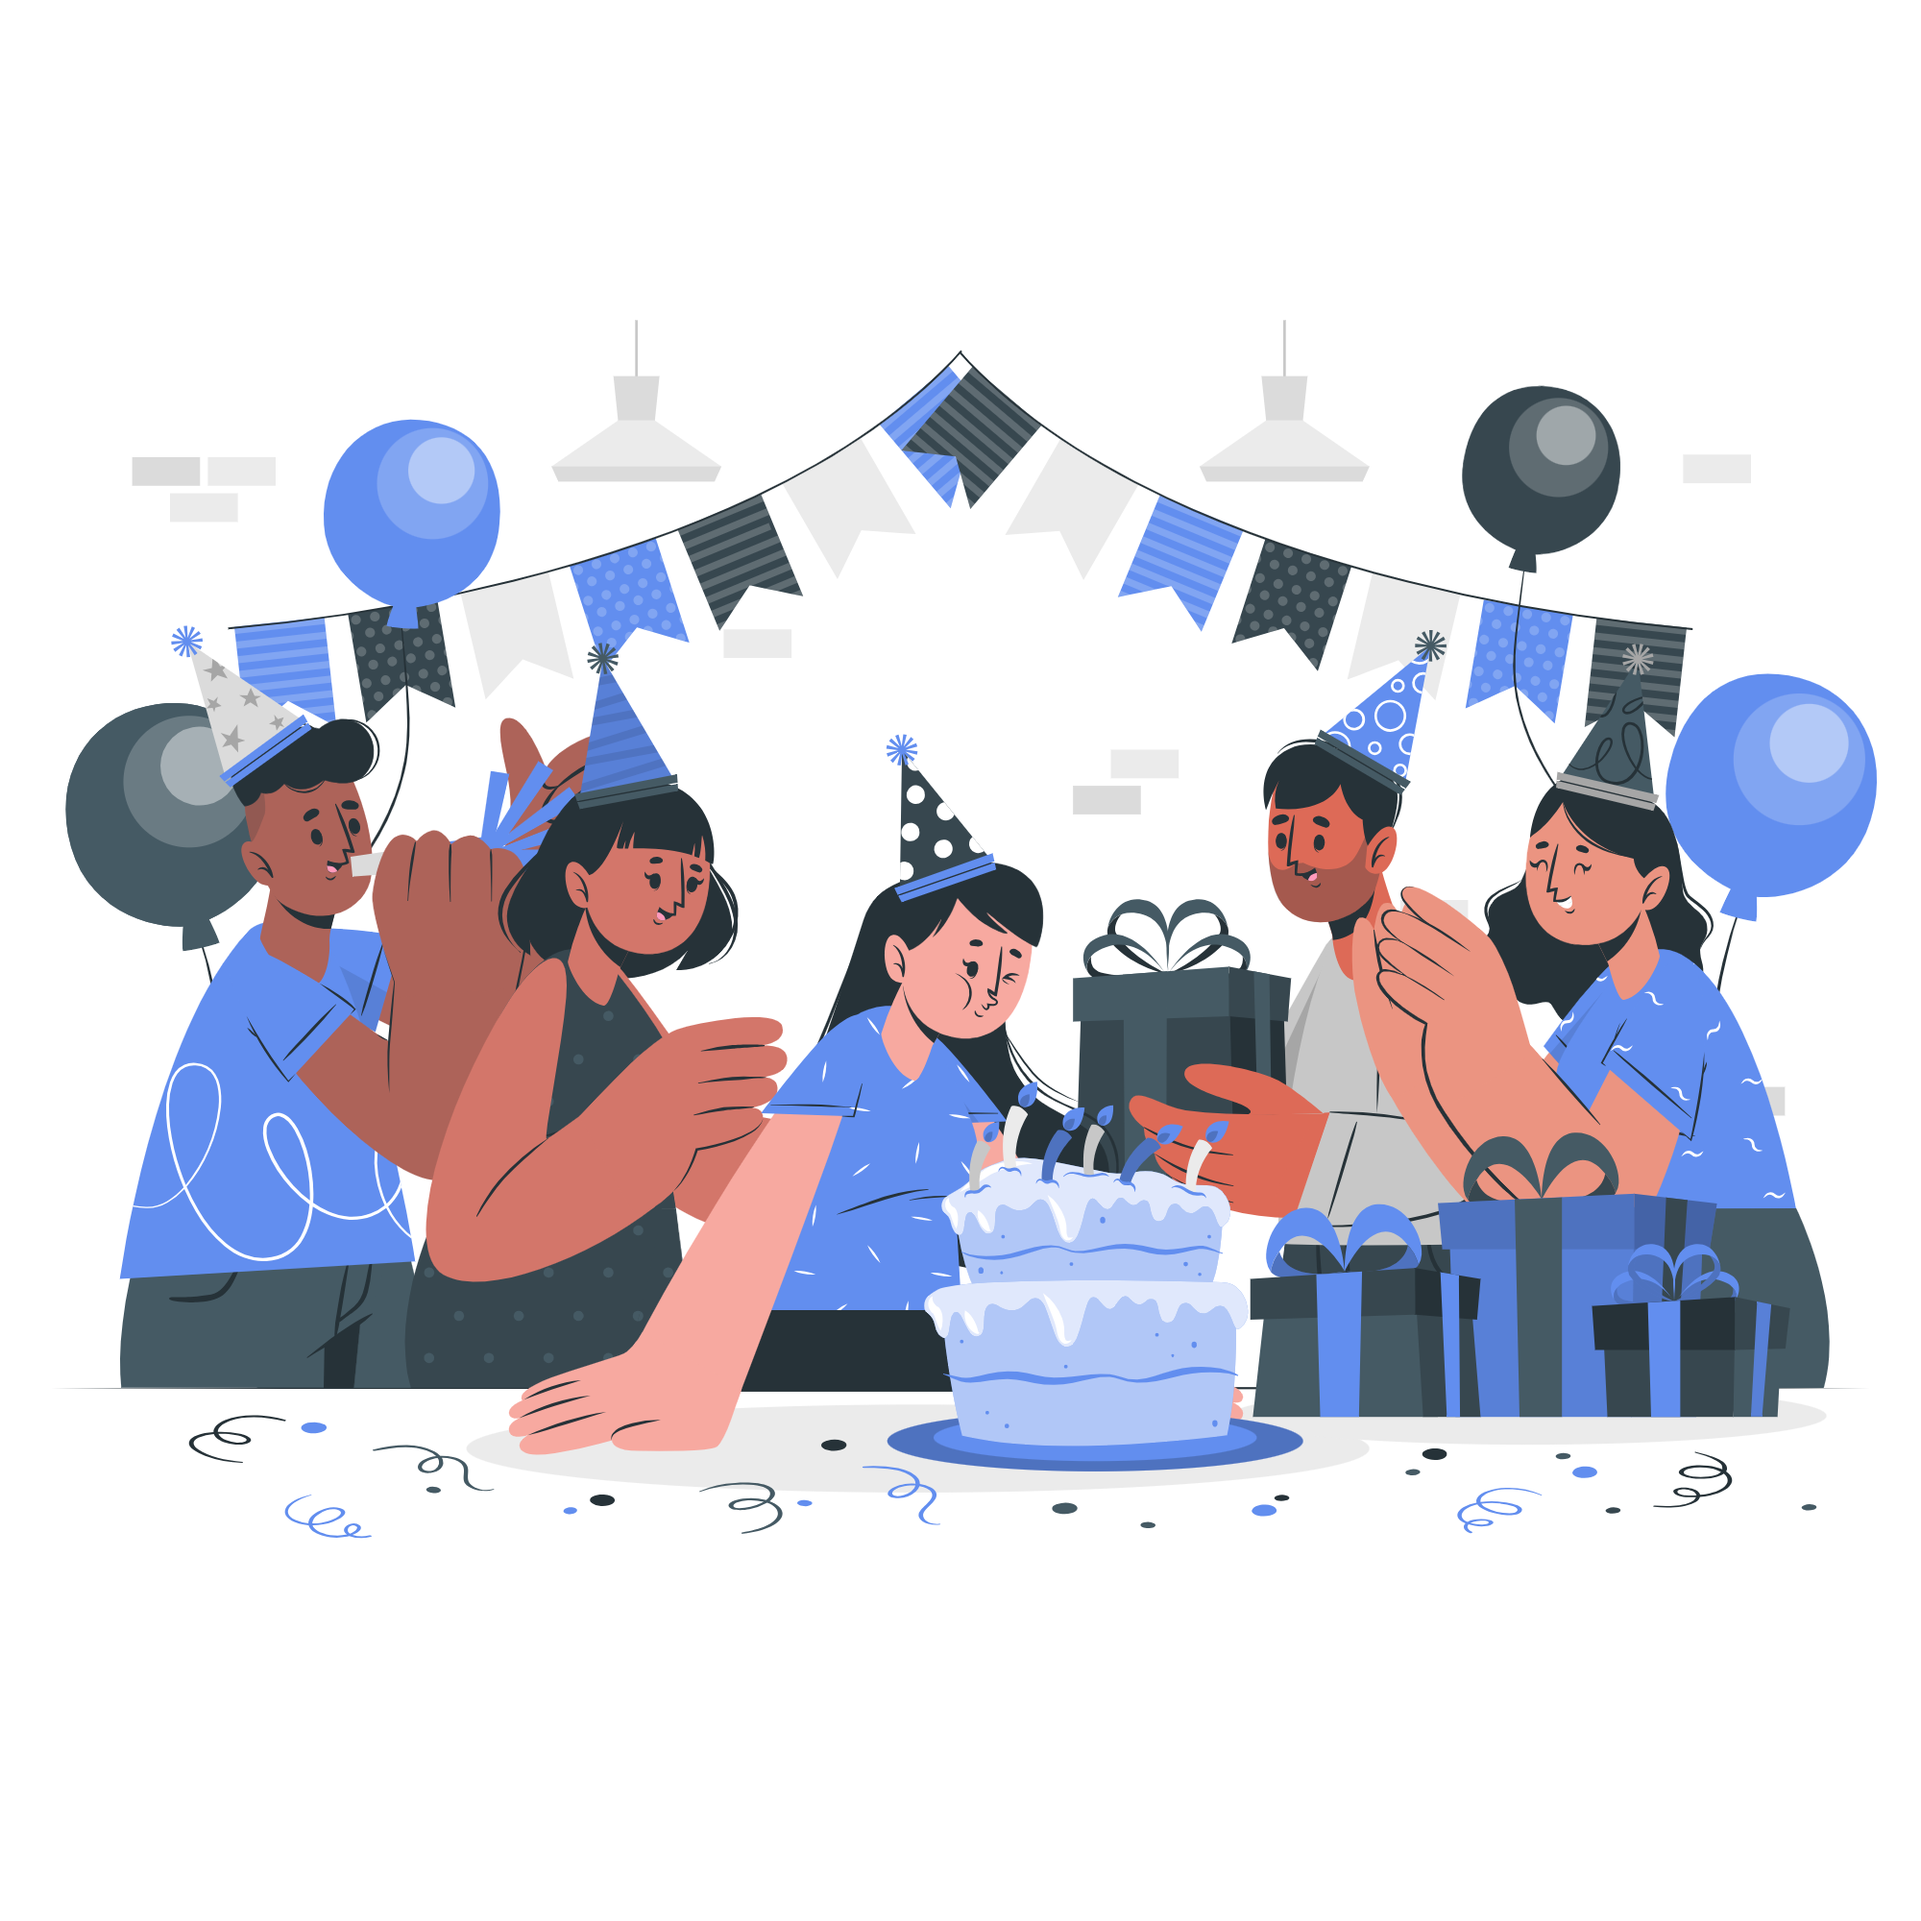
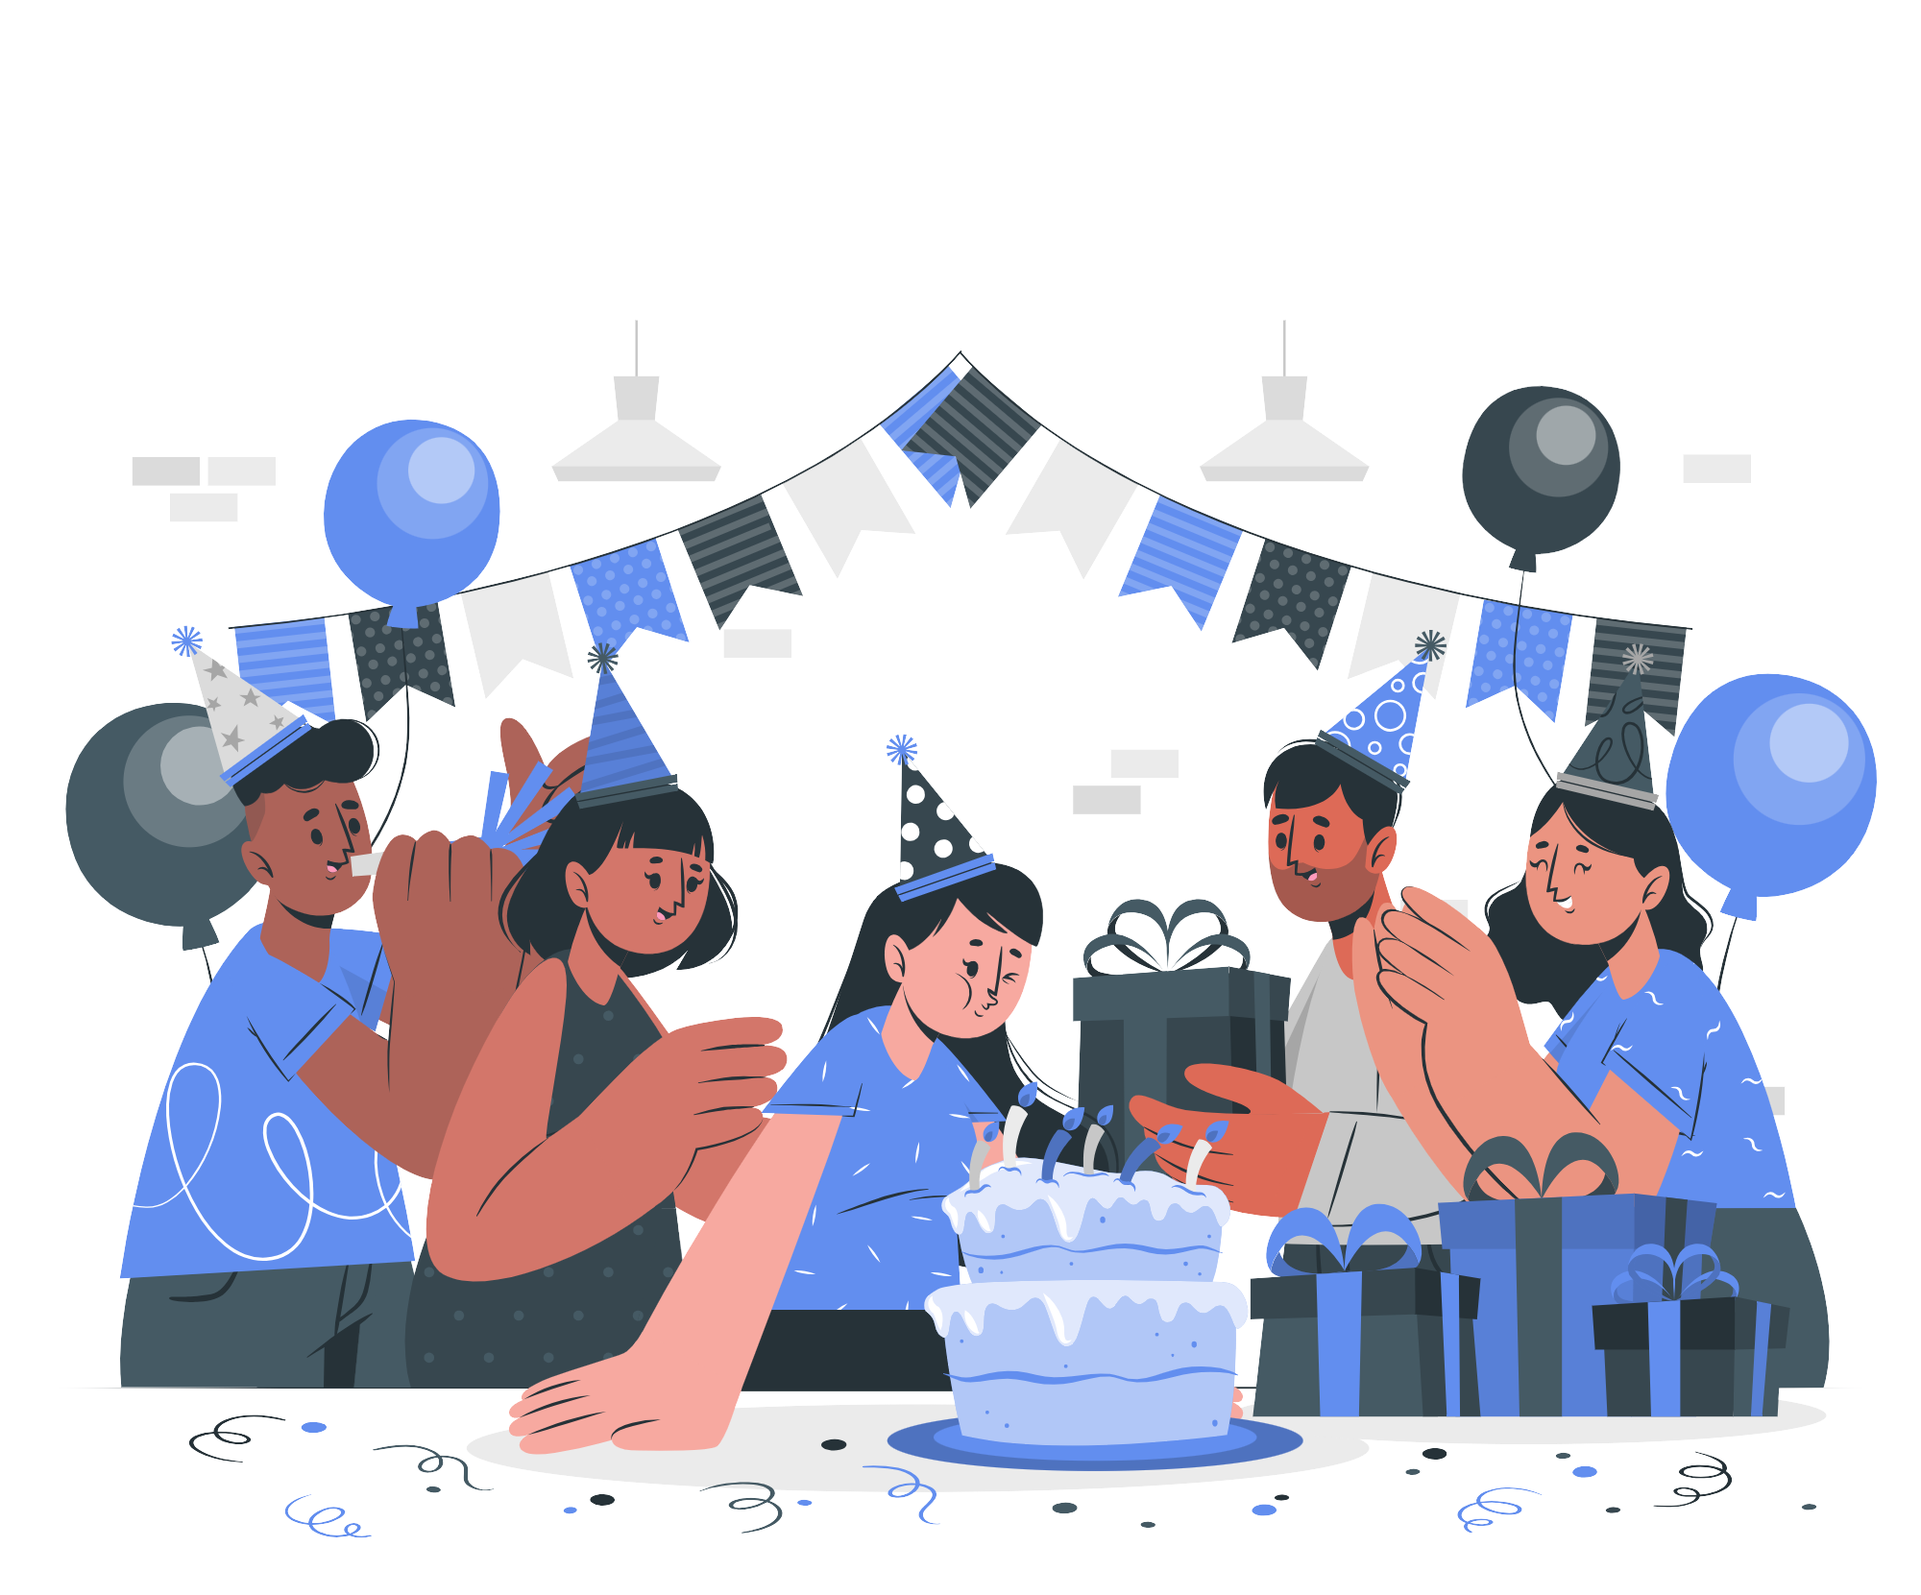
updating components

diff --git a/src/components/options/Options.tsx b/src/components/options/Options.tsx
@@ -1,25 +1,36 @@
 import { Text, View, TouchableOpacity, TextProps} from 'react-native';
 import { styles } from "./styles";
 import themes from "../../Styles/theme"
-import FristGroupOptions from "./FristGroupOptions";
-import SecondGroupOptions from "./SecondGroupOptions";
+import FristOptionsText from "./FristOptionsText";
+import SecondOptionsText from "./SecondOptionsText";
 import BackgroundOptions from "./BackgroundOptions";
+import FristOptionsRoute from "./FristOptionsRoute";
+import SecondOptionsRoute from "./SecondOptionsRoute";
 
 interface OptionsProps extends TextProps {
   OptionKey: string;
-
+  onPressCallback: (key: string) => void; 
 }
 
-const getFristGroupOptionsByKey = (key: string | undefined) => {
-  const FristOptionsEntry = FristGroupOptions.find((entry) => entry.key === key);
-  return FristOptionsEntry ? FristOptionsEntry.value : null;
+const getFristOptionsTextByKey = (key: string | undefined) => {
+  const FristOptionsTextEntry = FristOptionsText.find((entry) => entry.key === key);
+  return FristOptionsTextEntry ? FristOptionsTextEntry.value : null;
 };
 
-const getSecondGroupOptionsByKey = (key: string | undefined) => {
-  const SecondOptionsEntry = SecondGroupOptions.find((entry) => entry.key === key);
-  return SecondOptionsEntry ? SecondOptionsEntry.value : null;
+const getFristOptionsRouteByKey = (key: string | undefined) => {
+  const FristOptionsRouteEntry = FristOptionsRoute.find((entry) => entry.key === key);
+  return FristOptionsRouteEntry ? FristOptionsRouteEntry.value : '';
 };
 
+const getSecondOptionsTextByKey = (key: string | undefined) => {
+  const SecondOptionsTextEntry = SecondOptionsText.find((entry) => entry.key === key);
+  return SecondOptionsTextEntry ? SecondOptionsTextEntry.value : null;
+};
+
+const getSecondOptionsRouteByKey = (key: string | undefined) => {
+  const SecondOptionsRouteEntry = SecondOptionsRoute.find((entry) => entry.key === key);
+  return SecondOptionsRouteEntry ? SecondOptionsRouteEntry.value : '';
+};
 
 const getBackgroundOptionsByKey = (key: string | undefined) => {
   const BackgroundOptionsEntry = BackgroundOptions.find((entry) => entry.key === key);
@@ -28,13 +39,9 @@ const getBackgroundOptionsByKey = (key: string | undefined) => {
 
 const Options: React.FC<OptionsProps> = (props) => {
 
-  const { OptionKey } = props;
-  const FristOptionsValue = getFristGroupOptionsByKey(OptionKey);
-
-
-  const SecondOptionsValue = getSecondGroupOptionsByKey(OptionKey);
-
-
+  const { OptionKey, onPressCallback } = props;
+  const FristOptionsTextValue = getFristOptionsTextByKey(OptionKey);
+  const SecondOptionsValue = getSecondOptionsTextByKey(OptionKey);
   const BackgroundOptionsValue = getBackgroundOptionsByKey(OptionKey);
 
   return (
@@ -48,9 +55,12 @@ const Options: React.FC<OptionsProps> = (props) => {
             { backgroundColor: BackgroundOptionsValue !== null ? BackgroundOptionsValue : themes.colors.default },
             { borderRadius: 20 },
           ]}
-          // onPress = () realizar função quando clicar
+          onPress={() => {
+            const nextKey = getFristOptionsRouteByKey(OptionKey);
+            onPressCallback(nextKey);
+          }}
           >
-          <Text style={styles.text}>{FristOptionsValue}</Text>
+          <Text style={styles.text}>{FristOptionsTextValue}</Text>
         </TouchableOpacity>
 
 
@@ -60,7 +70,10 @@ const Options: React.FC<OptionsProps> = (props) => {
             {  backgroundColor: BackgroundOptionsValue !== null ? BackgroundOptionsValue : themes.colors.default},
             { borderRadius: 20 },
           ]}
-          // onPress = () realizar função quando clicar
+          onPress={() => {
+            const nextKey = getSecondOptionsRouteByKey(OptionKey);
+            onPressCallback(nextKey);
+          }}
           >
           <Text style={styles.text}>{SecondOptionsValue}</Text>
         </TouchableOpacity>

diff --git a/src/screens/Home/index.tsx b/src/screens/Home/index.tsx
@@ -1,13 +1,10 @@
+import React, { useState } from 'react';
 import { View, Text } from "react-native";
 import { styles } from "./styles";
-import MovieDescription from "../../components/movie_description/MovieDescription";
-import DirectorMovie from "../../components/director_movie/DirectorMovie";
-import MovieDuration from "../../components/movie_duration/MovieDuration";
-import MovieGenre from "../../components/movie_genre/MovieGenre";
-import MovieAvailable from "../../components/movie_available/MovieAvailable";
-import ImageQuestion from "../../components/image_question/ImageQuestion";
-import MovieCover from "../../components/movie_cover/MovieCover";
-import RestartButton from "../../components/restart_button/RestartButton";
+
+import ImageQuestion from '../../components/image_question/ImageQuestion';
+import Question from '../../components/question/Question';
+import Options from '../../components/options/Options';
 
 // ------------------ IMPORTANTE --------------------------------
 // todos os componentes estão passando string, se tiver que mudar para number
@@ -19,27 +16,28 @@ import RestartButton from "../../components/restart_button/RestartButton";
 
 //---------------------------------------------------------------
 
-export function Home() {
 
-    const teste = '1'; 
+
+export function Home() {
+    const [QuestionID, setQuestionID] = useState('1');
+
+    const handlePress = (newValue: string) => {
+        setQuestionID(newValue);
+      };
+
     return(
         <View style={styles.container}>
 
-        <ImageQuestion ImageKey={"10"}/>
+            <ImageQuestion ImageKey={QuestionID}/>
 
-        <MovieDescription MovieDescriptionKey={"1"}/>
+            <Question textKey={QuestionID}/>
 
-        <DirectorMovie NameDirectorKey={"1"}/>
+            <Options OptionKey={QuestionID} 
                 
-        <MovieDuration MovieDurationKey={"1"}/>
-
-        <MovieGenre MovieGenreKey={"1"}/>
-
-        {/* <MovieCover Coverkey={"1"}/> */}
-
-        <RestartButton BackgroundKey={teste}/>
-        
+                onPressCallback={handlePress}
+            />
 
         </View>
     );
 }
+

diff --git a/src/components/restart_button/RestartButton.tsx b/src/components/restart_button/RestartButton.tsx
@@ -5,6 +5,7 @@ import BackgroundOptions from './BackgroundOptions';
 
 interface RestartButtonProps extends TextProps {
   BackgroundKey: string ;
+  // onPressCallback: (key: string) => void; 
 }
 
 const getBackgroundOptionsByKey = (key: string | undefined) => {
@@ -12,8 +13,24 @@ const getBackgroundOptionsByKey = (key: string | undefined) => {
   return BackgroundOptionsEntry ? BackgroundOptionsEntry.value : null;
 };
 
+//teste ---------------------------
+
+// const testeOptions = [
+  
+//   { key: '1', value: '3' },
+//   { key: '2', value: '1' },
+//   { key: '3', value: '2' },
+// ];
+
+// const gettesteOptionsByKey = (key: string | undefined) => {
+//   const TESTEEntry = testeOptions.find((entry) => entry.key === key);
+//   return TESTEEntry ? TESTEEntry.value : '';
+// };
+
+
 const RestartButton: React.FC<RestartButtonProps> = (props) => {
-  const { BackgroundKey } = props;
+  // const { BackgroundKey, onPressCallback } = props;
+  const { BackgroundKey} = props;
   const BackgroundValue = getBackgroundOptionsByKey(BackgroundKey);
 
   return (
@@ -27,8 +44,13 @@ const RestartButton: React.FC<RestartButtonProps> = (props) => {
             {backgroundColor: BackgroundValue !== null ? BackgroundValue : themes.colors.default  },
             { borderRadius: 20 },
           ]}
-          //onPress = () add ação do botão
-          >
+
+          // onPress={() => {
+          //   const nextKey = gettesteOptionsByKey(BackgroundKey);
+          //   onPressCallback(nextKey);
+          // }}
+        > 
+
           <Text style={styles.textBtn}>REINICIAR</Text>
         </TouchableOpacity>
 

diff --git a/src/components/options/FristOptionsRoute.ts b/src/components/options/FristOptionsRoute.ts
@@ -1,0 +1,18 @@
+const FristOptionsRoute = [
+  
+  { key: '1', value: '2' },
+  { key: '2', value: '4' },
+  { key: '3', value: '6' },
+  { key: '4', value: '8' },
+  { key: '5', value: '0' }, // aponta para um filme
+  { key: '6', value: '0' }, // aponta para um filme
+  { key: '7', value: '0' }, // aponta para um filme
+  { key: '8', value: '11' },
+  { key: '9', value: '0' }, // aponta para um filme
+  { key: '10', value: '0' }, // aponta para um filme
+  { key: '11', value: '0' }, // aponta para um filme
+  { key: '12', value: '0' }, // aponta para um filme
+  { key: '13', value: '0' }, // aponta para um filme
+];
+
+export default FristOptionsRoute;

diff --git a/src/components/options/SecondOptionsRoute.ts b/src/components/options/SecondOptionsRoute.ts
@@ -1,0 +1,19 @@
+const SecondOptionsRoute = [
+  
+  { key: '1', value: '3' },
+  { key: '2', value: '5' },
+  { key: '3', value: '7' },
+  { key: '4', value: '9' },
+  { key: '5', value: '0' }, // aponta para um filme
+  { key: '6', value: '13' },
+  { key: '7', value: '10' },
+  { key: '8', value: '0' }, // aponta para um filme
+  { key: '9', value: '12' },
+  { key: '10', value: '0' }, // aponta para um filme
+  { key: '11', value: '0' }, // aponta para um filme
+  { key: '12', value: '0' }, // aponta para um filme
+  { key: '13', value: '0' }, // aponta para um filme
+
+];
+
+export default SecondOptionsRoute;

diff --git a/src/components/options/FristOptionsText.ts b/src/components/options/FristOptionsText.ts
@@ -1,4 +1,4 @@
-const FristGroupOptions = [
+const FristOptionsText = [
   { key: '1', value: 'Já peguei o lenço' },
   { key: '2', value: 'Família' },
   { key: '3', value: 'Parece divertido' },
@@ -14,4 +14,4 @@ const FristGroupOptions = [
   { key: '13', value: 'Barões da tecnologia' },
 ];
 
-export default FristGroupOptions;
+export default FristOptionsText;

diff --git a/src/components/options/SecondOptionsText.ts b/src/components/options/SecondOptionsText.ts
@@ -1,4 +1,4 @@
-const SecondGroupOptions = [
+const SecondOptionsText = [
   { key: '1', value: 'Nada de filme meloso' },
   { key: '2', value: 'Amizade' },
   { key: '3', value: 'Parece chato' },
@@ -14,4 +14,4 @@ const SecondGroupOptions = [
   { key: '13', value: 'Influencers' },
 ];
 
-export default SecondGroupOptions;
+export default SecondOptionsText;

diff --git a/src/components/image_question/styles.ts b/src/components/image_question/styles.ts
@@ -9,6 +9,7 @@ export const styles = StyleSheet.create({
   imgQuestionContainer: {
     display: 'flex',
     alignItems: 'center',
+    marginTop: '15%', //tirar 
   },
   
   image: {

diff --git a/src/components/question/styles.ts b/src/components/question/styles.ts
@@ -3,9 +3,7 @@ import { StyleSheet } from "react-native";
 export const styles = StyleSheet.create({
 
   container: {
-    width: '80%',
-    
-
+    width: '100%',
   },
   
   text: {
